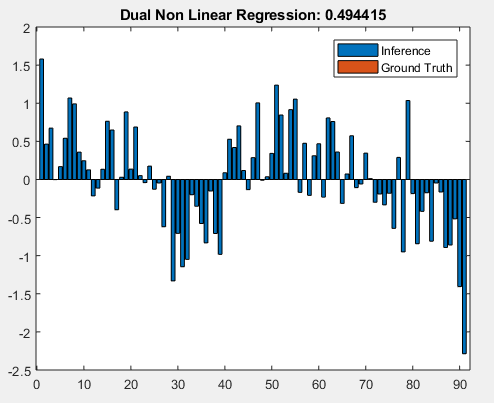
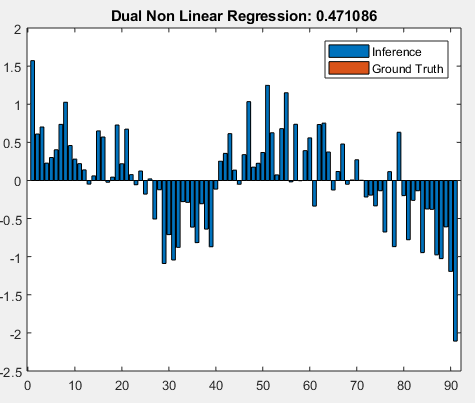
Rectified task 5

Changed region(s): [[0.0, 0.0, 0.9726, 0.9826]]

diff --git a/MLCV7/7_Mohammed_Jasam/code.m b/MLCV7/7_Mohammed_Jasam/code.m
@@ -15,7 +15,7 @@ TestingPath = 'testing\';
 [XTest, GT] = getData(TestingPath);
 
 % Calculating Phi to Infer Rotation of the Image
-phi1 = pinv(XTrain') * WTrain;
+phi = pinv(XTrain') * WTrain;
 
 fprintf('Results:\n')
 
@@ -23,7 +23,7 @@ fprintf('Results:\n')
 TaskName1 = 'Linear Regression';
 
 % Inference of Rotation Angle on Testing Data
-Inference1 = XTest' * phi1;
+Inference1 = XTest' * phi;
 
 % Evaluation of accuracy
 LinearRegressionResult = sum(abs(Inference1(:) - GT(:)))/ size(GT, 1);
@@ -37,9 +37,6 @@ draw(GT, Inference1, TaskName1);
 %% Task 2: Feature Selection to reduce the Dimensionality for faster computation
 TaskName2 = 'Feature Selection';
 
-% Copying Variables from Earlier Code
-WTrain2 = WTrain;
-
 % Calculating Variance on Training Data
 TrainingVariance = var(XTrain, 0, 2);
 
@@ -47,17 +44,17 @@ TrainingVariance = var(XTrain, 0, 2);
 Threshold = 1;
 
 % Selecting Features in Training Data
-XTrain2 = XTrain(TrainingVariance > Threshold, :);
+XTrainFS = XTrain(TrainingVariance > Threshold, :);
 
 % Selecting Features in Testing Data
-XTest2 = XTest(TrainingVariance > Threshold, :);
+XTestFS = XTest(TrainingVariance > Threshold, :);
 
 % Calculating Phi to Infer Rotation of the Image
-phi2 = pinv(XTrain2') * WTrain2;
+phiFS = pinv(XTrainFS') * WTrain;
 
 %% Experiment: Linear Regression using Selected Features
 % % Inference of Rotation Angle on Testing Data
-% Inference2 = XTest2' * phi2;
+% Inference2 = XTestFS' * phiFS;
 % 
 % % Evaluation of accuracy
 % FeatureSelection = sum(abs(Inference2(:) - GT(:))) / size(GT, 1);
@@ -72,16 +69,16 @@ phi2 = pinv(XTrain2') * WTrain2;
 TaskName3 = 'Bayesian Solution';
 
 % Copying Variables from Earlier Code
-XTrain3 = XTrain2; % Using the Feature Selected Training Data
-WTrain3 = WTrain; % Using the original W
-XTest3 = XTest2; % Using the Feature Selected Testing Data
-phi3 = phi2; % Using the Phi after Feature Selection
+% XTrain3 = XTrain2; % Using the Feature Selected Training Data
+% WTrain3 = WTrain; % Using the original W
+% XTest3 = XTest2; % Using the Feature Selected Testing Data
+% phi3 = phi2; % Using the Phi after Feature Selection
 
 % Variance in Phi
-VarPrior = var(phi1);
+VarPrior = var(phiFS);
 
 % Inference of Rotation Angle on Testing Data
-[Inference3, VarianceTrain3] = compute('BLR', XTrain3, WTrain3, VarPrior, XTest3);
+[Inference3, VarianceTrain] = compute('BLR', XTrainFS, WTrain, VarPrior, XTestFS);
 
 % Evaluation of accuracy
 BayesianSolution = sum(abs(Inference3(:) - GT(:))) / size(GT, 1);
@@ -96,12 +93,12 @@ draw(GT, Inference3, 'Bayesian Solution');
 TaskName4 = 'Non L.R. with F.S';
 
 % Copying Variable from Earlier Code
-XTrain4 = XTrain2;
-XTest4 = XTest2;
-WTrain4 = WTrain;
-VarianceTrain4 = VarianceTrain3;
+% XTrain4 = XTrain2;
+% XTest4 = XTest2;
+% WTrain4 = WTrain;
+% VarianceTrain = VarianceTrain;
 
-Lambda = VarianceTrain4 / var(phi3);
+Lambda = VarianceTrain / var(phiFS);
 
 % Select the Number of Polynomials
 n = 2;
@@ -111,18 +108,18 @@ ZTrain = [];
 ZTest = [];
 
 for i = 1 : n
-    NewXTrain = XTrain4 .^ i;
+    NewXTrain = XTrainFS .^ i;
     ZTrain = [ZTrain; NewXTrain];
     
-    NewXTest = XTest4 .^ i;
+    NewXTest = XTestFS .^ i;
     ZTest = [ZTest; NewXTest];
 end
 
 % Calculating Phi to Infer Rotation of the Image
-phi4 = (ZTrain * ZTrain' + Lambda * eye(size(ZTrain, 1))) \ ZTrain * WTrain2;
+phiNLR = (ZTrain * ZTrain' + Lambda * eye(size(ZTrain, 1))) \ ZTrain * WTrain;
 
 % Inference of Rotation Angle on Testing Data
-Inference4 = phi4' * ZTest;
+Inference4 = phiNLR' * ZTest;
 
 % Evaluation of accuracy
 NonLinearSolution = sum(abs(Inference4(:) - GT(:))) / size(GT, 1);
@@ -138,13 +135,13 @@ TaskName51 = 'Dual N.L.R. - F.S';
 TaskName52 = 'Dual + QuadKernel';
 
 % Method 1: Inference of Rotation Angle on Testing Data
-Lambda = VarianceTrain4 / var(phi3);
-psi = ((XTrain2' * XTrain2) * (XTrain2' * XTrain2) + Lambda * eye(size(XTrain2, 2))) \ (XTrain2' * XTrain2) * WTrain2;
-phi = XTrain2 * psi;
-Inference51 = phi' * XTest2;
+Lambda = VarianceTrain / var(phiFS);
+psi = ((XTrain' * XTrain) * (XTrain' * XTrain) + Lambda * eye(size(XTrain, 2))) \ (XTrain' * XTrain) * WTrain;
+phi = XTrain * psi;
+Inference51 = phi' * XTest;
 
 % Method 2: Kernel + Inference of Rotation Angle on Testing Data
-Inference52 = compute('DNLR', XTrain, WTrain, var(phi1), XTest);
+Inference52 = compute('DNLR', XTrain, WTrain, var(phi), XTest);
 
 % Computing the accuracy
 DualNonLinearRegression1 = sum(abs(Inference51(:) - GT(:))) / size(GT, 1);
@@ -178,3 +175,4 @@ ylabel('Angle of Rotation')
 
 hold off;
 title('Ground Truth vs Various Methods');
+return

diff --git a/MLCV7/code.m b/MLCV7/code.m
@@ -18,6 +18,7 @@ TestingPath = 'testing\';
 phi1 = pinv(XTrain') * WTrain;
 
 fprintf('Results:\n')
+
 %% Task 1: Linear Regression
 TaskName1 = 'Linear Regression';
 
@@ -108,6 +109,7 @@ n = 2;
 % Creating the Z Train and Z Test
 ZTrain = [];
 ZTest = [];
+
 for i = 1 : n
     NewXTrain = XTrain4 .^ i;
     ZTrain = [ZTrain; NewXTrain];
@@ -137,7 +139,7 @@ TaskName52 = 'Dual + QuadKernel';
 
 % Method 1: Inference of Rotation Angle on Testing Data
 Lambda = VarianceTrain4 / var(phi3);
-psi = (XTrain2' * XTrain2) * (XTrain2' * XTrain2) + Lambda * eye(size(XTrain2, 2))) \ XTrain2' * XTrain2 * WTrain2;
+psi = ((XTrain2' * XTrain2) * (XTrain2' * XTrain2) + Lambda * eye(size(XTrain2, 2))) \ (XTrain2' * XTrain2) * WTrain2;
 phi = XTrain2 * psi;
 Inference51 = phi' * XTest2;
 
@@ -150,15 +152,16 @@ DualNonLinearRegression2 = sum(abs(Inference52(:) - GT(:))) / size(GT, 1);
 
 % Displaying Dual Non-Linear Regression Result
 fprintf('%s: %f\n', TaskName51, DualNonLinearRegression1);
+
+% Experiment:
 fprintf('\nExperiment:\n')
 fprintf('%s: %f\n', TaskName52, DualNonLinearRegression2);
 
 % Graph
 draw(GT, Inference51, TaskName51);
-draw(GT, Inference52, TaskName52);
+draw(GT, Inference52, TaskName52); % Using Quadratic Kernel
 
 %% Visualization
-% close all;
 figure();
 plot(GT);         hold on;
 plot(Inference1); hold on;

diff --git a/MLCV7/HW7_PoojaKancherla/Dual_Non_Linear_Regression.m b/MLCV7/HW7_PoojaKancherla/Dual_Non_Linear_Regression.m
@@ -99,11 +99,11 @@ function [print, result, ground_truth] = Dual_Non_Linear_Regression()
     A = ((X_train' * X_train) * (X_train' * X_train)) + (lambda * eye(num_train));
     A_inv = inv(A);
 
-    psi_test = A_inv * (X_train' * X_train) * w_train;
-    phi_test = X_train * psi_test; 
+    psi = A_inv * (X_train' * X_train) * w_train;
+    phi = X_train * psi; 
     
     %% Inferring the rotation on test files
-    w_inferred = phi_test' * X_test;
+    w_inferred = phi' * X_test;
 
     %% Calculating the diff
     diff_sum = 0;
@@ -111,7 +111,6 @@ function [print, result, ground_truth] = Dual_Non_Linear_Regression()
        diff_sum = diff_sum + abs(w_inferred(i) - ground_truth(i));
     end
     diff_sum = diff_sum / (size(testing_files, 1) - 2);
-%     disp(sprintf('Dual Non Linear Regression = %f', diff_sum));
     print = sprintf('Dual Non Linear Regression = %f', diff_sum);
     
     %% Visualization    

diff --git a/MLCV7/HW7_PoojaKancherla/Bayesian_Regularization.m b/MLCV7/HW7_PoojaKancherla/Bayesian_Regularization.m
@@ -21,7 +21,8 @@ function [print, result, ground_truth] = Bayesian_Regularization()
         image = image(:,:,1);
         X_train = [X_train image(:)];
     end
-
+    
+    % Feature Selection
     X_train = double(X_train);
     ones_row = ones(1, size(X_train, 2));
     var_mat = var(X_train, 0, 2);
@@ -55,7 +56,8 @@ function [print, result, ground_truth] = Bayesian_Regularization()
         image = image(:,:,1);
         X_test = [X_test image(:)];
     end
-
+    
+    % Feature Selection
     X_test = double(X_test);
     ones_row = ones(1, size(X_test, 2));
     var_mat = var(X_train, 0, 2);

diff --git a/MLCV7/HW7_PoojaKancherla/Visualize_All.m b/MLCV7/HW7_PoojaKancherla/Visualize_All.m
@@ -55,3 +55,7 @@ hold on
 bar(diff(:,5))
 hold on
 bar(gt' - gt')
+
+title('Deviation Chart')
+legend('Ground Truth', 'Linear Regression', 'Feature Selection',...
+        'Bayesian LR + FS', 'Non Linear Regression', 'Dual Non-LR');
